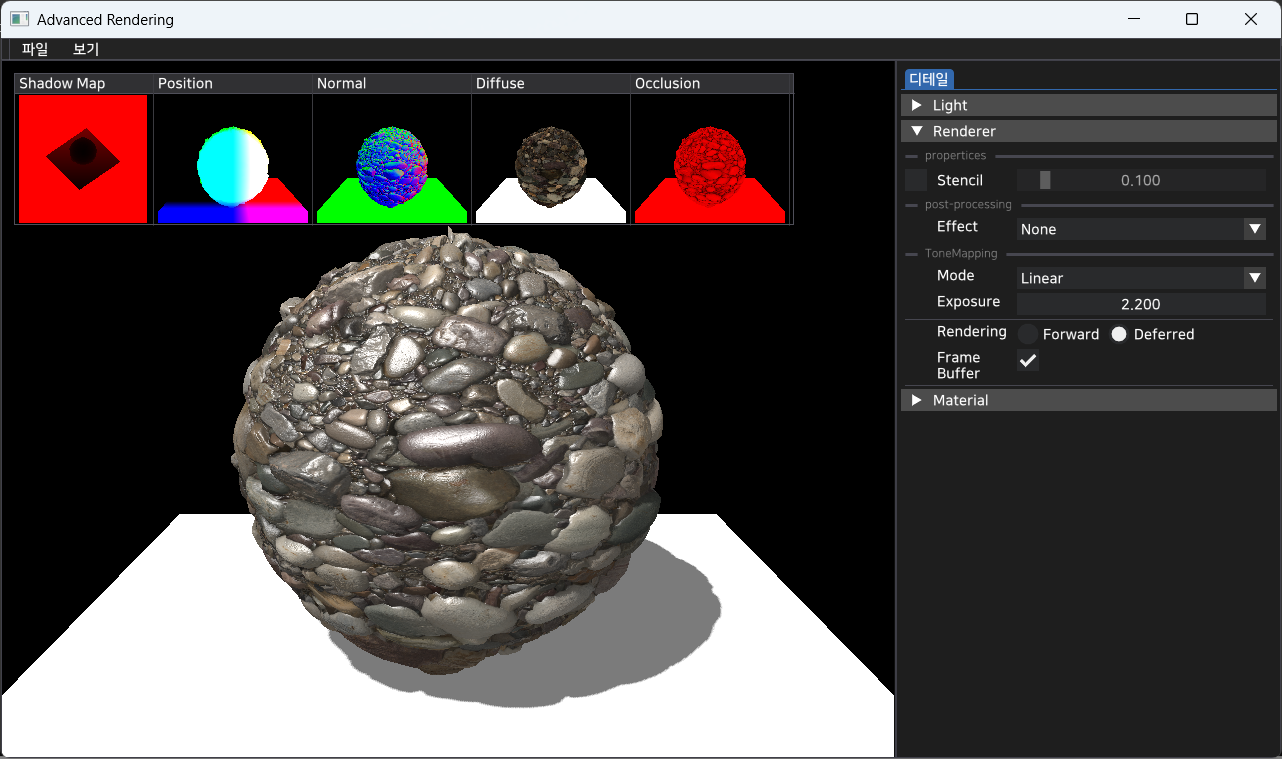
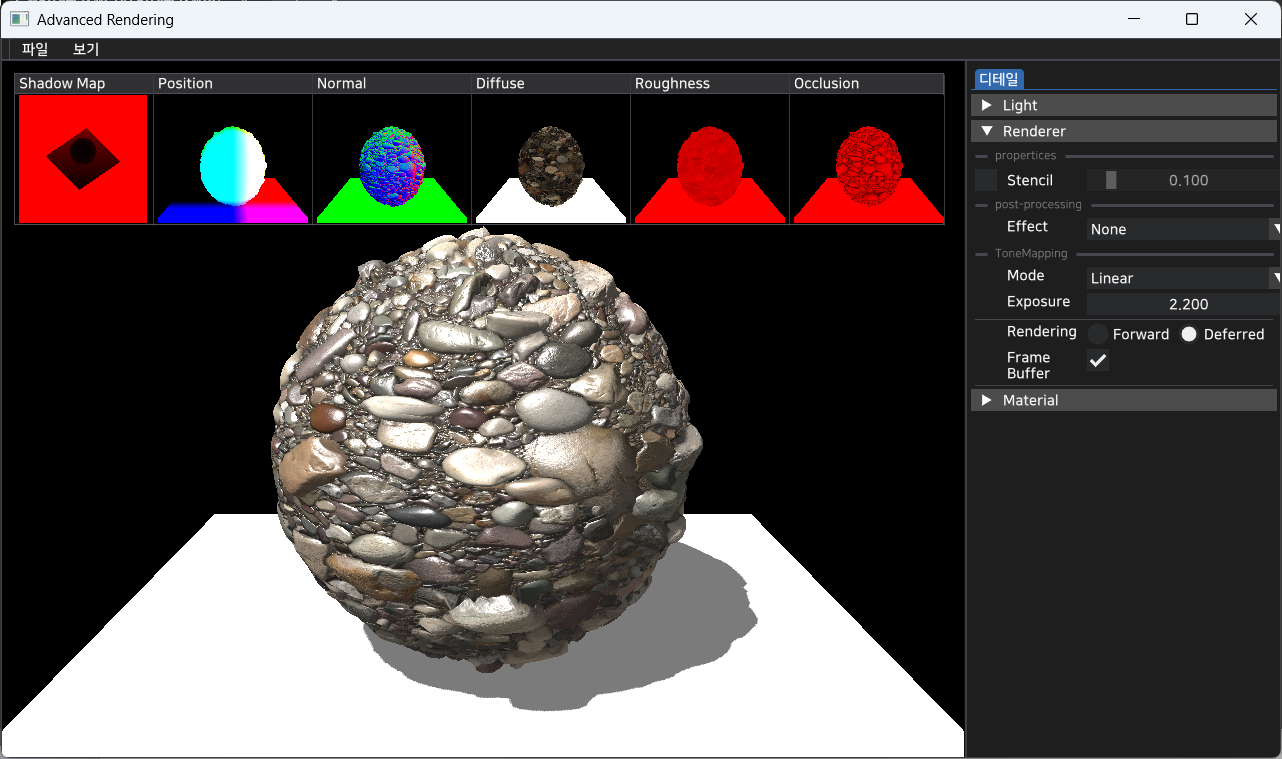
deferredShader 수정

diff --git a/src/renderer/private/renderer.cpp b/src/renderer/private/renderer.cpp
@@ -47,6 +47,8 @@ OpenGLRenderer::~OpenGLRenderer()
     glDeleteTextures(1, &gpos);
     glDeleteTextures(1, &gnor);
     glDeleteTextures(1, &gdiff);
+    glDeleteTextures(1, &grou);
+    glDeleteTextures(1, &gao);
     glDeleteRenderbuffers(1, &grbo);
     glDeleteBuffers(1, &vubo);
 }
@@ -112,23 +114,30 @@ void OpenGLRenderer::CreateGBuffer(int width, int height)
     glTexParameteri(GL_TEXTURE_2D, GL_TEXTURE_MIN_FILTER, GL_NEAREST);
     glTexParameteri(GL_TEXTURE_2D, GL_TEXTURE_MAG_FILTER, GL_NEAREST);
     glFramebufferTexture2D(GL_FRAMEBUFFER, GL_COLOR_ATTACHMENT1, GL_TEXTURE_2D, gnor, 0);
-    //diffuse and specular
+    //diffuse
     glGenTextures(1, &gdiff);
     glBindTexture(GL_TEXTURE_2D, gdiff);
     glTexImage2D(GL_TEXTURE_2D, 0 , GL_RGBA, width, height, 0, GL_RGBA, GL_UNSIGNED_BYTE, nullptr);
     glTexParameteri(GL_TEXTURE_2D, GL_TEXTURE_MIN_FILTER, GL_NEAREST);
     glTexParameteri(GL_TEXTURE_2D, GL_TEXTURE_MAG_FILTER, GL_NEAREST);
     glFramebufferTexture2D(GL_FRAMEBUFFER, GL_COLOR_ATTACHMENT2, GL_TEXTURE_2D, gdiff, 0);
+    //roughness
+    glGenTextures(1, &grou);
+    glBindTexture(GL_TEXTURE_2D, grou);
+    glTexImage2D(GL_TEXTURE_2D, 0 , GL_R8, width, height, 0, GL_RED, GL_UNSIGNED_BYTE, nullptr);
+    glTexParameteri(GL_TEXTURE_2D, GL_TEXTURE_MIN_FILTER, GL_NEAREST);
+    glTexParameteri(GL_TEXTURE_2D, GL_TEXTURE_MAG_FILTER, GL_NEAREST);
+    glFramebufferTexture2D(GL_FRAMEBUFFER, GL_COLOR_ATTACHMENT3, GL_TEXTURE_2D, grou, 0);
     //ambient occlusion
     glGenTextures(1, &gao);
     glBindTexture(GL_TEXTURE_2D, gao);
     glTexImage2D(GL_TEXTURE_2D, 0 , GL_R8, width, height, 0, GL_RED, GL_UNSIGNED_BYTE, nullptr);
     glTexParameteri(GL_TEXTURE_2D, GL_TEXTURE_MIN_FILTER, GL_NEAREST);
     glTexParameteri(GL_TEXTURE_2D, GL_TEXTURE_MAG_FILTER, GL_NEAREST);
-    glFramebufferTexture2D(GL_FRAMEBUFFER, GL_COLOR_ATTACHMENT3, GL_TEXTURE_2D, gao, 0);
+    glFramebufferTexture2D(GL_FRAMEBUFFER, GL_COLOR_ATTACHMENT4, GL_TEXTURE_2D, gao, 0);
     //
-    unsigned int attachments[4] = {GL_COLOR_ATTACHMENT0, GL_COLOR_ATTACHMENT1, GL_COLOR_ATTACHMENT2, GL_COLOR_ATTACHMENT3};
-    glDrawBuffers(4, attachments);
+    unsigned int attachments[5] = {GL_COLOR_ATTACHMENT0, GL_COLOR_ATTACHMENT1, GL_COLOR_ATTACHMENT2, GL_COLOR_ATTACHMENT3, GL_COLOR_ATTACHMENT4};
+    glDrawBuffers(5, attachments);
     //depth
     glGenRenderbuffers(1, &grbo);
     glBindRenderbuffer(GL_RENDERBUFFER, grbo);
@@ -149,6 +158,8 @@ void OpenGLRenderer::ResizeBuffer(int width, int height)
     glDeleteTextures(1, &gpos);
     glDeleteTextures(1, &gnor);
     glDeleteTextures(1, &gdiff);
+    glDeleteTextures(1, &grou);
+    glDeleteTextures(1, &gao);
     glDeleteRenderbuffers(1, &grbo);
     CreateBuffer(width, height);
 }
@@ -285,6 +296,14 @@ void OpenGLRenderer::Draw()
             parameter->diffuseTexture->Bind();
             index++;
         }
+        if(parameter->roughnessTextrue != nullptr)
+        {
+            gbufferShader->SetBool("bRoughness", true);
+            gbufferShader->SetInt("roughnessTexture", index);
+            glActiveTexture(GL_TEXTURE0+index);
+            parameter->roughnessTextrue->Bind();
+            index++;
+        }
         if(parameter->normalTexture != nullptr)
         {
             gbufferShader->SetBool("bNormal", true);
@@ -306,6 +325,7 @@ void OpenGLRenderer::Draw()
         mesh->UnBind();
         gbufferShader->SetBool("bDisp", false);
         gbufferShader->SetBool("bDiffuse", false);
+        gbufferShader->SetBool("bRoughness", false);
         gbufferShader->SetBool("bNormal", false);
         gbufferShader->SetBool("bAo", false);
         glBindTexture(GL_TEXTURE_2D, 0);
@@ -405,6 +425,8 @@ void OpenGLRenderer::Draw()
         glDisable(GL_DEPTH_TEST);
         glClearColor(0.7f, 0.7f, 0.7f, 1.0f);
         glClear(GL_COLOR_BUFFER_BIT);
+        MeshComponent* meshComponent = Context::GetContext()->world->GetSelectedActor()->GetComponent<MeshComponent>();
+        MaterialParameter* parameter = static_cast<OpenGLMaterial*>(meshComponent->GetMaterial())->GetParameter();
         OpenGLShader* deferredShader = static_cast<OpenGLShader*>(Context::GetContext()->resourceManager->FindShader("deferredShader"));
         deferredShader->UseProgram();
         glm::mat4 lightView = lightComponent->GetViewMatrix();
@@ -412,6 +434,11 @@ void OpenGLRenderer::Draw()
         deferredShader->SetMatrix4("mLightMatrix", lightProjection*lightView);
         deferredShader->SetVector3("directionalLight", lightComponent->GetTransform().position);
         deferredShader->SetVector3("cameraPosition", cameraComponent->GetTransform().position);
+        //light
+        deferredShader->SetFloat("lightIntensity",*lightComponent->GetIntensity());
+        deferredShader->SetVector3("lightColor",glm::make_vec3(lightComponent->GetColor()));
+        deferredShader->SetVector3("lightAmbient", glm::make_vec3(lightComponent->GetAmbient()));
+        
         GLint index = 0;
         deferredShader->SetInt("gPosition", index);
         glActiveTexture(GL_TEXTURE0+index);
@@ -424,6 +451,10 @@ void OpenGLRenderer::Draw()
         deferredShader->SetInt("gDiffuse", index);
         glActiveTexture(GL_TEXTURE0+index);
         glBindTexture(GL_TEXTURE_2D, gdiff);
+        index++;
+        deferredShader->SetInt("gRoughness", index);
+        glActiveTexture(GL_TEXTURE0+index);
+        glBindTexture(GL_TEXTURE_2D, grou);
         index++;
         deferredShader->SetInt("gAmbientOcclusion", index);
         glActiveTexture(GL_TEXTURE0+index);

diff --git a/src/core/private/editor.cpp b/src/core/private/editor.cpp
@@ -399,12 +399,13 @@ void Editor::CreateSceneLayout()
                 ImGuiWindowFlags_NoSavedSettings|
                 ImGuiWindowFlags_NoBackground |
                 ImGuiWindowFlags_NoDecoration);
-        if(ImGui::BeginTable("framebufferTable", 5, ImGuiTableFlags_RowBg|ImGuiTableFlags_Resizable|ImGuiTableFlags_Borders, ImVec2(780, 0)))
+        if(ImGui::BeginTable("framebufferTable", 6, ImGuiTableFlags_RowBg|ImGuiTableFlags_Resizable|ImGuiTableFlags_Borders, ImVec2(930, 0)))
         {
             ImGui::TableSetupColumn("Shadow Map", ImGuiTableColumnFlags_WidthFixed, 130.0f);
             ImGui::TableSetupColumn("Position", ImGuiTableColumnFlags_WidthFixed, 150.0f);
             ImGui::TableSetupColumn("Normal", ImGuiTableColumnFlags_WidthFixed, 150.0f);
             ImGui::TableSetupColumn("Diffuse", ImGuiTableColumnFlags_WidthFixed, 150.0f);
+            ImGui::TableSetupColumn("Roughness", ImGuiTableColumnFlags_WidthFixed, 150.0f);
             ImGui::TableSetupColumn("Occlusion", ImGuiTableColumnFlags_WidthFixed, 150.0f);
 
             ImGui::TableHeadersRow();
@@ -418,8 +419,9 @@ void Editor::CreateSceneLayout()
             ImGui::TableSetColumnIndex(3);
             ImGui::Image(Context::GetContext()->renderer->GetGBufferDiffuse(), ImVec2(150, 128), ImVec2(0, 1), ImVec2(1, 0));
             ImGui::TableSetColumnIndex(4);
+            ImGui::Image(Context::GetContext()->renderer->GetGBufferRoughness(), ImVec2(150, 128), ImVec2(0, 1), ImVec2(1, 0));
+            ImGui::TableSetColumnIndex(5);
             ImGui::Image(Context::GetContext()->renderer->GetGBufferOcclusion(), ImVec2(150, 128), ImVec2(0, 1), ImVec2(1, 0));
-
             ImGui::EndTable();
         }
         //ImGui::GetForegroundDrawList()->AddImage(Context::GetContext()->renderer->GetShadowBuffer(), scenePos , ImVec2(256+scenePos.x, 256+scenePos.y), ImVec2(0, 1), ImVec2(1, 0));

diff --git a/src/renderer/public/renderer.hpp b/src/renderer/public/renderer.hpp
@@ -27,8 +27,8 @@ class IRenderer
         virtual unsigned int& GetGBufferPosition() = 0;
         virtual unsigned int& GetGBufferNormal() = 0;
         virtual unsigned int& GetGBufferDiffuse() = 0;
+        virtual unsigned int& GetGBufferRoughness() = 0;
         virtual unsigned int& GetGBufferOcclusion() = 0;
-
         virtual void CreateBuffer(int width, int height) = 0;
         virtual void ResizeBuffer(int width, int height) = 0;
         virtual float GetAspect()const = 0;
@@ -48,6 +48,7 @@ class OpenGLRenderer:public IRenderer
         unsigned int& GetGBufferPosition() override{return gpos;}
         unsigned int& GetGBufferNormal() override{return gnor;}
         unsigned int& GetGBufferDiffuse() override{return gdiff;}
+        unsigned int& GetGBufferRoughness() override{return grou;}
         unsigned int& GetGBufferOcclusion() override{return gao;}
         void ResizeBuffer(int w, int h);
         float GetAspect()const{return float(width)/height;}
@@ -64,7 +65,7 @@ class OpenGLRenderer:public IRenderer
         unsigned int vubo;//shader uniform
         unsigned int shadowFrameBuffer, shadowFrameTexture;//shadow map
         unsigned int gfbo, grbo;//deferred framebuffer
-        unsigned int gpos, gnor, gdiff, gao;//deferred colorbuffer
+        unsigned int gpos, gnor, gdiff, grou, gao;//deferred colorbuffer
         int width, height;
         bool bStencil = false;
         int bDeferred = 0;
